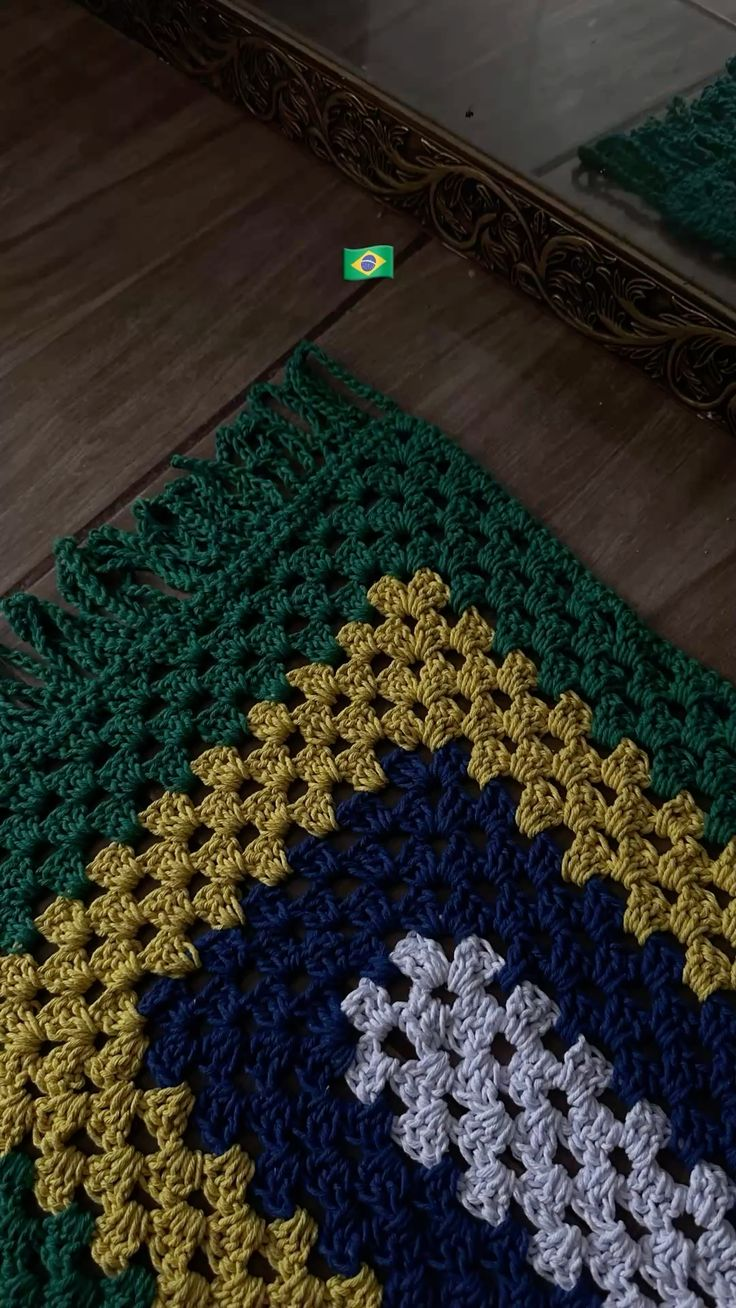
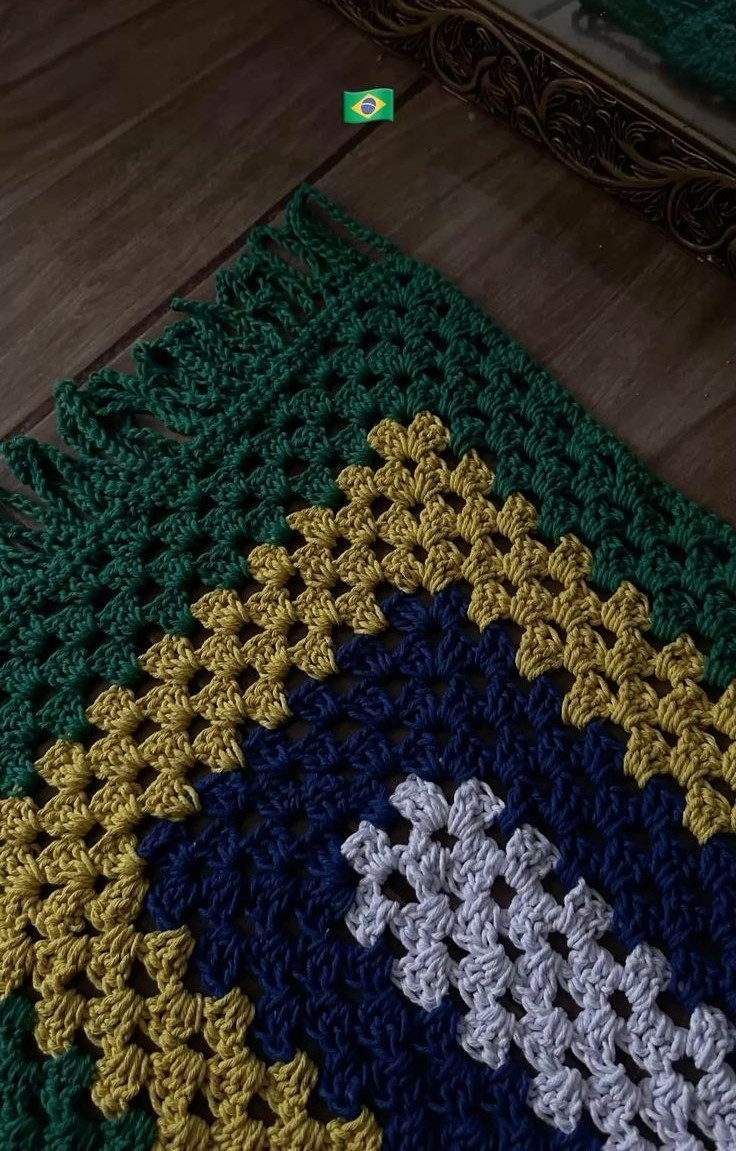
Salvo

diff --git a/css/style.css b/css/style.css
@@ -21,6 +21,7 @@ body {
     width: 100%;
     top: 0;
     z-index: 1000;
+    font-family: 'Franklin Gothic Medium', 'Arial Narrow', Arial, sans-serif;
 }
 
 /* Menu */
@@ -60,42 +61,11 @@ main {
 }
 
 /* Produtos */
-.product-card {
-    display: inline-block;
-    width: 45%;
-    background: white;
-    border: 1px solid #ddd;
-    padding: 15px;
-    margin: 10px;
-    text-align: center;
-    vertical-align: top;
-    transition: 0.3s;
-}
 
-.product-card img {
-    width: 100%;
-    max-width: 250px;
-    margin: 10px 0;
-}
+
 .product-card {
     display: inline-block;
-    width: 45%;
-    background: white;
-    border: 1px solid #ddd;
-    padding: 15px;
-    margin: 10px;
-    text-align: center;
-    vertical-align: top;
-    transition: 0.3s;
-}
-.product-card img {
-    width: 100%;
-    max-width: 250px;
-    margin: 10px 0;
-}
-.product-card {
-    display: inline-block;
-    width: 45%;
+    
     background: white;
     border: 1px solid #ddd;
     padding: 15px;
@@ -104,27 +74,6 @@ main {
     vertical-align: top;
     transition: 0.3s;
     border-radius: 10px;
-}
-.product-card img {
-    width: 100%;
-    max-width: 250px;
-    margin: 10px 0;
-}
-.product-card {
-    display: inline-block;
-    width: 45%;
-    background: white;
-    border: 1px solid #ddd;
-    padding: 15px;
-    margin: 10px;
-    text-align: center;
-    vertical-align: top;
-    transition: 0.3s;
-}
-.product-card img {
-    width: 100%;
-    max-width: 250px;
-    margin: 10px 0;
 }
 
 .product-card:hover {
@@ -168,4 +117,48 @@ button:hover {
     text-align: center;
     padding: 15px;
     margin-top: 20px;
+}
+#produtos {
+    display: grid;
+    grid-template-columns: 1fr 1fr 1fr;
+    gap: 5px;
+    padding:  5px;
+}
+@media(min-width: 768px) {
+.products {
+    grid-template-columns: repeat(2, 1fr);
+
+}
+
+}
+
+@media(min-width: 1024px) {
+.products {
+    grid-template-columns: repeat(3, 1fr);
+
+}
+
+}
+ul {
+  list-style-type: none;
+  margin: 0;
+  padding: 0;
+  overflow: hidden;
+  background-color: hsl(134, 9%, 54%);
+}
+
+ul li {
+  float: left;
+}
+
+ul li a {
+  display: block;
+  color: #244e10;
+  text-align: center;
+  padding: 14px 16px;
+  text-decoration: none;
+}
+
+ul li a:hover {
+  background-color: #A2B447;
 }

diff --git a/html/index.html b/html/index.html
@@ -50,9 +50,9 @@
             </article>
 
             <article class="product-card">
-                <h3>Linha de croche</h3>
+                <h3>Linha rosa croche</h3>
                 <img src="../img/croche.jpg" alt="Linha premium croche" width="250">
-                <p>Linha premium croche.</p>
+                <p><i>Linha</i></p>
             </article>
 
 
@@ -134,9 +134,9 @@
 
             <h2>Sobre a Loja</h2>
 
-            <p>
+            <p><i>
                 Somos uma loja dedicada a oferecer produtos de qualidade com os melhores preços.
-                Nossa loja cresceu de um sonho impossível que se tornou realidade. 
+                Nossa loja cresceu de um sonho impossível que se tornou realidade.</i></p>
             </p>
 
         </section>

diff --git a/html/grid.html b/html/grid.html
@@ -1,0 +1,16 @@
+<!DOCTYPE html>
+<html lang="en">
+<head>
+    <meta charset="UTF-8">
+    <meta name="viewport" content="width=device-width, initial-scale=1.0">
+    <title>Grid e resposividade</title>
+    <link rel="stylesheet" href="./css/grid.css">
+</head>
+<body>
+    <header>
+
+        <h1>Minha loja</h1>
+    </header>
+
+</body>
+</html>
